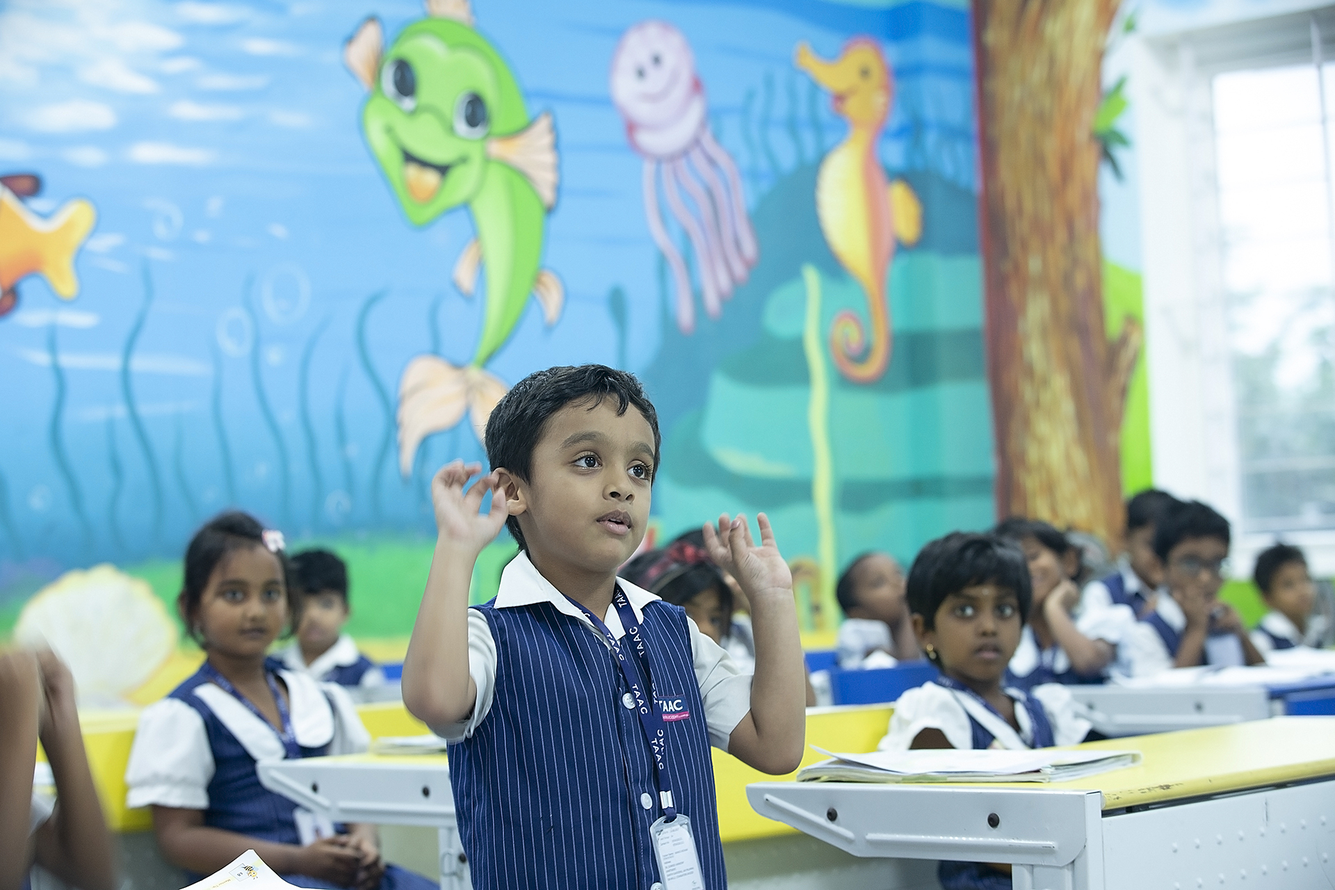
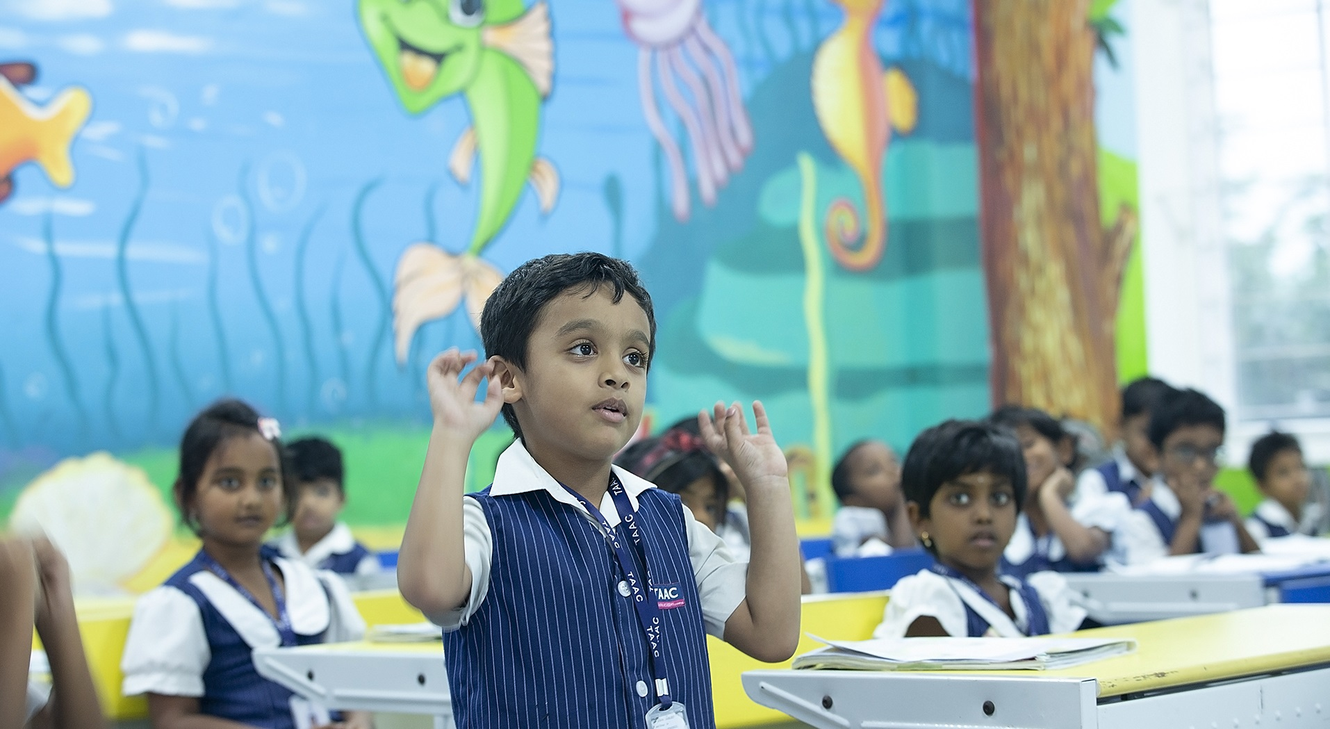
Slider Carousel Update_24.03

diff --git a/index.html b/index.html
@@ -35,7 +35,7 @@
         <!-- Preloader_TAAC -->
 
        <!-- Topbar_TAAC -->
-        <div class="container-fluid latest_update px-5 pt-2 d-lg-block">
+        <div class="container-fluid latest_update px-3 pt-2 d-lg-block">
             <div class="row gx-0">
                 <div class="col-md-12 text-center text-lg-start mb-2 mb-lg-0">
                     <div class="d-flex align-items-center justify-content-center" style="height: 45px;">
@@ -56,7 +56,7 @@
 
         <!-- Navbar_TAAC -->
         <div class="container-fluid position-relative p-0">
-            <nav class="navbar navbar-expand-lg navbar-light px-4 px-lg-5 py-3 py-lg-0">
+            <nav class="navbar navbar-expand-lg navbar-light px-4 px-lg-3 py-3 py-lg-0">
                 <a href="" class="navbar-brand p-md-2">
                     <img src="img/TAAC_Vector.webp" alt="Logo"> 
                 </a>
@@ -79,81 +79,17 @@
             </nav>
 
             <!-- Carousel_TAAC -->
-            <div class="slider">
-                <div class="slide current">
-                  <div class="content">
-                    <h1 class="taac_red_font">NEET - 2023</h1>
-                    <p class="taac_blue_font">
-                        Achieved the highest score in the National Eligibility cum Entrance Test.
-                    </p>
-                  </div>
-                </div>
-                <div class="slide">
-                    <div class="content">
-                      <h1 class="taac_red_font">NEET Acheivers</h1>
-                      <p class="taac_blue_font">
-                          TAAC Akshaya Academy Campus _ JEE 2024 Toppers
-                      </p>
-                    </div>
-                  </div>
-                <div class="slide">
-                  <div class="content">
-                    <h1 class="taac_red_font">JEE Mains 2024</h1>
-                    <p class="taac_blue_font">
-                        TAAC Akshaya Academy Campus _ JEE 2024 Toppers
-                    </p>
-                  </div>
-                </div>
-                <div class="slide">
-                  <div class="content">
-                    <h1 class="taac_red_font">JEE Mains 2024</h1>
-                    <p class="taac_blue_font">
-                      Acheiving Akshayans of JEE Mains 2024
-                    </p>
-                  </div>
-                </div>
-                <div class="slide">
-                  <div class="content">
-                    <h1 class="taac_red_font">Global Perspectives</h1>
-                    <p class="taac_blue_font">
-                        Immerse yourself in a diverse and inclusive educational atmosphere where global 
-                        perspectives are integrated into every facet of learning.
-                    </p>
-                  </div>
-                </div>
-                <div class="slide">
-                  <div class="content">
-                    <h1 class="taac_red_font">Slide Five</h1>
-                    <p class="taac_blue_font">
-                      Lorem ipsum, dolor sit amet consectetur adipisicing elit. Sit hic
-                      maxime, voluptatibus labore doloremque vero!
-                    </p>
-                  </div>
-                </div>
-                <div class="slide">
-                  <div class="content">
-                    <h1 class="taac_red_font">Slide Six</h1>
-                    <p class="taac_blue_font">
-                      Lorem ipsum, dolor sit amet consectetur adipisicing elit. Sit hic
-                      maxime, voluptatibus labore doloremque vero!
-                    </p>
-                  </div>
-                </div>
-              </div>
-              <div class="buttons">
-                <button id="prev"><i class="fas fa-arrow-left"></i></button>
-                <button id="next"><i class="fas fa-arrow-right"></i></button>
-              </div>
+           
             <!-- Carousel_TAAC -->
         </div>
         <!-- Navbar_TAAC -->
 
         <!-- About_TAAC -->
         <div class="container-fluid about">
-            <div class="container py-5">
+            <div class="container py-4">
                 <div class="row g-5 align-items-center">
                     <div class="col-lg-5">
-                        <div class="h-100">
+                        <div class="">
                             <img src="img/TAAC_Collections/Gallery1.png" class="img-fluid w-100 h-40" alt="">
                         </div>
                     </div>

diff --git a/css/style.css b/css/style.css
@@ -318,128 +318,11 @@
 }
 
 /*** Carousel Hero Header Start ***/
-.slider {
-  position: relative;
-  overflow: hidden;
-  height: 100vh;
-  width: 100vw;
-}
-
-.slide {
-  position: absolute;
-  top: 0;
-  left: 0;
-  width: 100%;
-  height: 100%;
-  opacity: 0;
-  transition: opacity 0.4s ease-in-out;
-  background-size: contain; /* Ensure the background image covers the entire container */
-  background-position: center; /* Center the background image */
-}
-
-@media (max-width: 768px) {
-  .slider {
-    height: 80vh; /* Adjust the height of the slider container for smaller screens */
-  }
-}
-
-.slide.current {
-  opacity: 1;
-}
-
-.slide .content {
-  position: absolute;
-  font-family: 'Lobster';
-  bottom: 70px;
-  left: -600px;
-  opacity: 0;
-  width: 600px;
-  background-color: rgba(255, 255, 255, 0.8);
-  color: #333;
-  padding: 25px;
-}
-
-.slide .content h1 {
-  margin-bottom: 10px;
-}
-
-.slide.current .content {
-  opacity: 1;
-  transform: translateX(600px);
-  transition: all 0.7s ease-in-out 0.3s;
-}
-
-.buttons button#next {
-  position: absolute;
-  top: 40%;
-  right: 15px;
-}
-
-.buttons button#prev {
-  position: absolute;
-  top: 40%;
-  left: 15px;
-}
-
-.buttons button {
-  border: 2px solid rgb(255, 255, 255,0.3);
-  background-color: transparent;
-  color: #b05b5b;
-  cursor: pointer;
-  padding: 10px 12px;
-  border-radius: 50%;
-  outline: none;
-}
-
-.buttons button:hover {
-  background-color: #d98d8d;
-  color: #333;
-}
-
-@media (max-width: 500px) {
-  .slide .content {
-    bottom: -300px;
-    left: 0;
-    width: 100%;
-  }
-
-  .slide.current .content {
-    transform: translateY(-300px);
-  }
-}
 
 
 
-/* Backgorund Images */
- 
-.slide:first-child {
-  background: url('/img/TAAC_Collections/bg2.png') no-repeat
-    center top/cover;
-}
-.slide:nth-child(2) {
-  background: url('/img/TAAC_Collections/bg4.png') no-repeat
-    center top/cover;
-}
-.slide:nth-child(3) {
-  background: url('/img/TAAC_Collections/bg1.png') no-repeat
-    center top/cover;
-}
-.slide:nth-child(4) {
-  background: url('/img/TAAC_Collections/bg3.png') no-repeat
-    center top/cover;
-}
-.slide:nth-child(5) {
-  background: url('/img/TAAC_Collections/Slider1.jpg') no-repeat
-    center top/cover;
-}
-.slide:nth-child(6) {
-  background: url('https://source.unsplash.com/ULmaQh9Gvbg/1600x900') no-repeat
-    center top/cover;
-} 
-.slide:nth-child(7)  {
-  background: url('https://source.unsplash.com/ggZuL3BTSJU/1600x900') no-repeat
-    center center/cover;
-}
+
+
 /*** Carousel Hero Header End ***/
 
 
@@ -1182,7 +1065,7 @@
 
 .testimonial .testimonial-carousel .owl-nav .owl-prev {
     position: absolute;
-    top: -55px;
+    top: -50px;
     left: 0;
     padding: 5px 30px;
     border: 1px solid var(--bs-primary);
@@ -1192,7 +1075,7 @@
 
 .testimonial .testimonial-carousel .owl-nav .owl-next {
     position: absolute;
-    top: -55px;
+    top: -50px;
     right: 0;
     padding: 5px 30px;
     border: 1px solid var(--bs-primary);

diff --git a/js/main.js b/js/main.js
@@ -21,68 +21,7 @@
         }
     });
 
-    // Carousel_Slider_TAAC Home
-    const slides = document.querySelectorAll('.slide');
-const next = document.querySelector('#next');
-const prev = document.querySelector('#prev');
-const auto = true; // Auto scroll
-const intervalTime = 7000;
-let slideInterval;
-
-const nextSlide = () => {
-  // Get current class
-  const current = document.querySelector('.current');
-  // Remove current class
-  current.classList.remove('current');
-  // Check for next slide
-  if (current.nextElementSibling) {
-    // Add current to next sibling
-    current.nextElementSibling.classList.add('current');
-  } else {
-    // Add current to start
-    slides[0].classList.add('current');
-  }
-  setTimeout(() => current.classList.remove('current'));
-};
-
-const prevSlide = () => {
-  // Get current class
-  const current = document.querySelector('.current');
-  // Remove current class
-  current.classList.remove('current');
-  // Check for prev slide
-  if (current.previousElementSibling) {
-    // Add current to prev sibling
-    current.previousElementSibling.classList.add('current');
-  } else {
-    // Add current to last
-    slides[slides.length - 1].classList.add('current');
-  }
-  setTimeout(() => current.classList.remove('current'));
-};
-
-// Button events
-next.addEventListener('click', e => {
-  nextSlide();
-  if (auto) {
-    clearInterval(slideInterval);
-    slideInterval = setInterval(nextSlide, intervalTime);
-  }
-});
-
-prev.addEventListener('click', e => {
-  prevSlide();
-  if (auto) {
-    clearInterval(slideInterval);
-    slideInterval = setInterval(nextSlide, intervalTime);
-  }
-});
-
-// Auto slide
-if (auto) {
-  // Run next slide at interval time
-  slideInterval = setInterval(nextSlide, intervalTime);
-}
+  
 
 
     // International Tour carousel
@@ -316,7 +255,7 @@ var swiper = new Swiper(".swiper", {
       pauseOnMouseEnter: true,
     },
   });
-              tsParticles.load("tsparticles", {
+    tsParticles.load("tsparticles", {
     fpsLimit: 40,
     backgroundMode: {
       enable: true,
